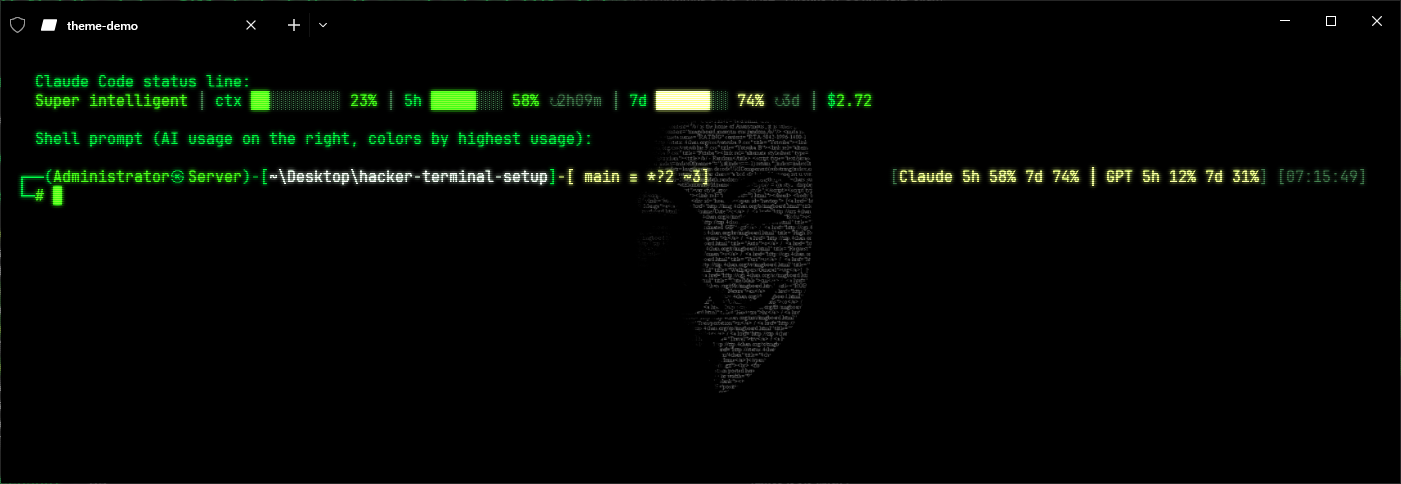
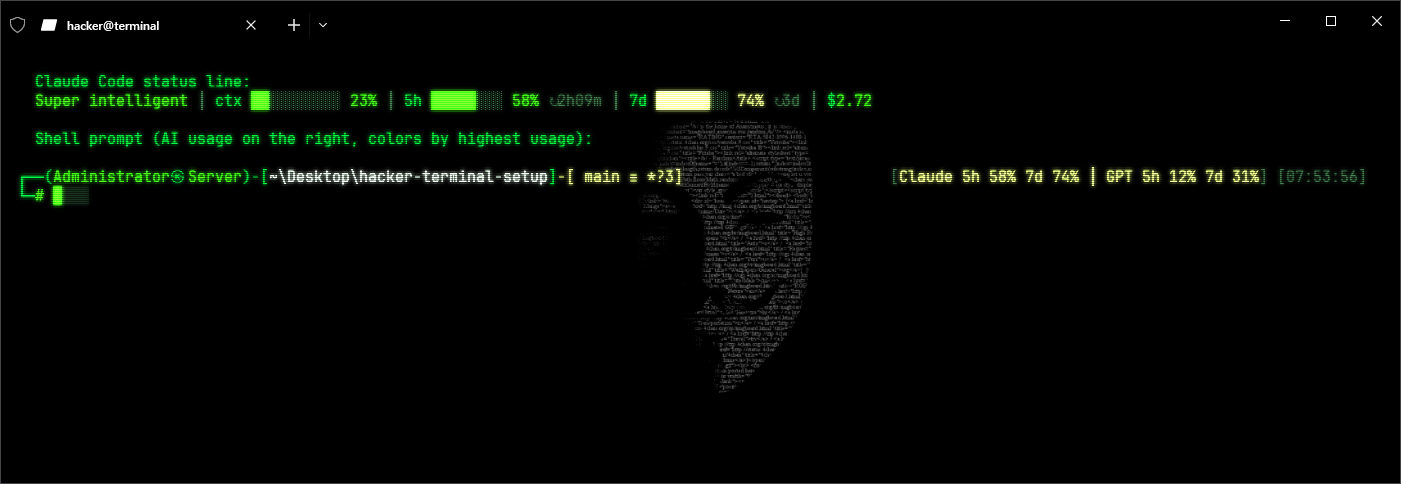
Add example screenshots: session, AI usage levels, status line levels

diff --git a/README.md b/README.md
@@ -6,6 +6,22 @@ A green-on-black hacker theme for **Windows Terminal + PowerShell**, with a Kali
 
 *Example with sample data: Claude Code status line on top, prompt with the AI usage segment on the right.*
 
+## Screenshots
+
+**A normal session:** colored output, the full wallpaper, a red `[1]` after a failed command, and syntax colors while typing:
+
+![Terminal session](screenshots/session.png)
+
+**AI usage in the prompt** changes color with your highest limit:
+
+![AI usage levels](screenshots/usage-levels.png)
+
+**Claude Code status line** at different usage levels:
+
+![Claude Code status line levels](screenshots/statusline-levels.png)
+
+*Usage numbers in all screenshots are sample data.*
+
 ## What you get
 
 | Part | What it does |
